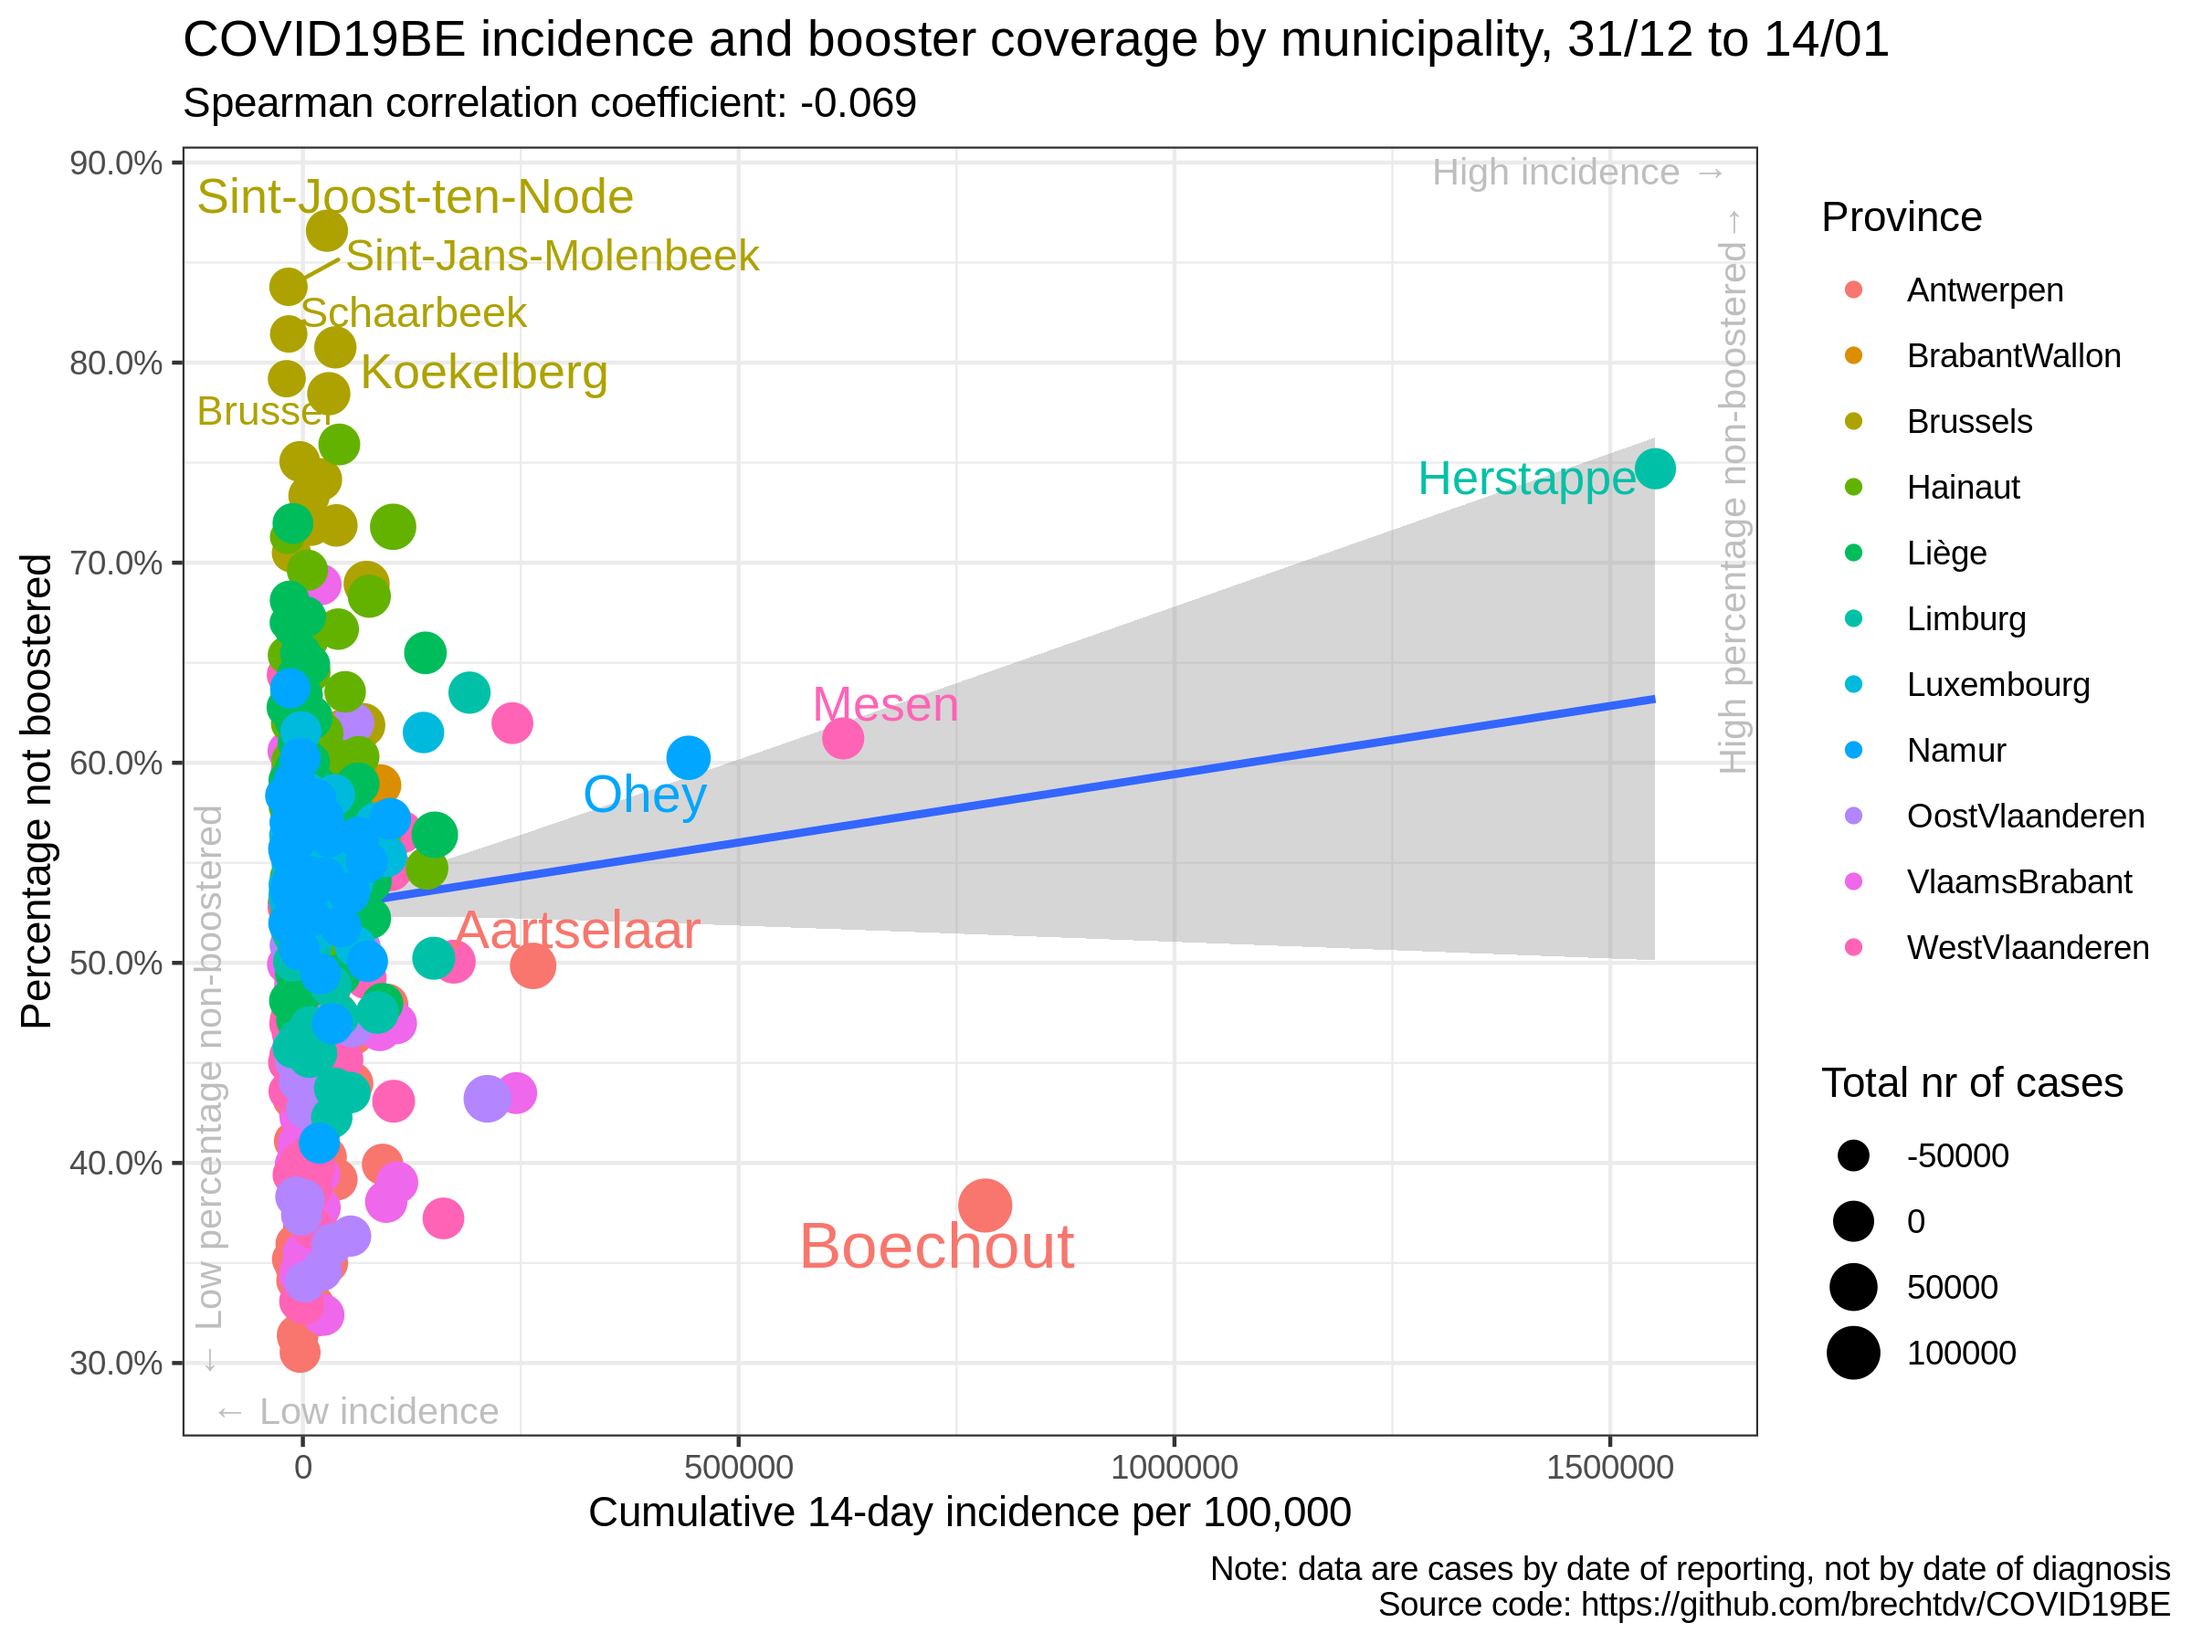
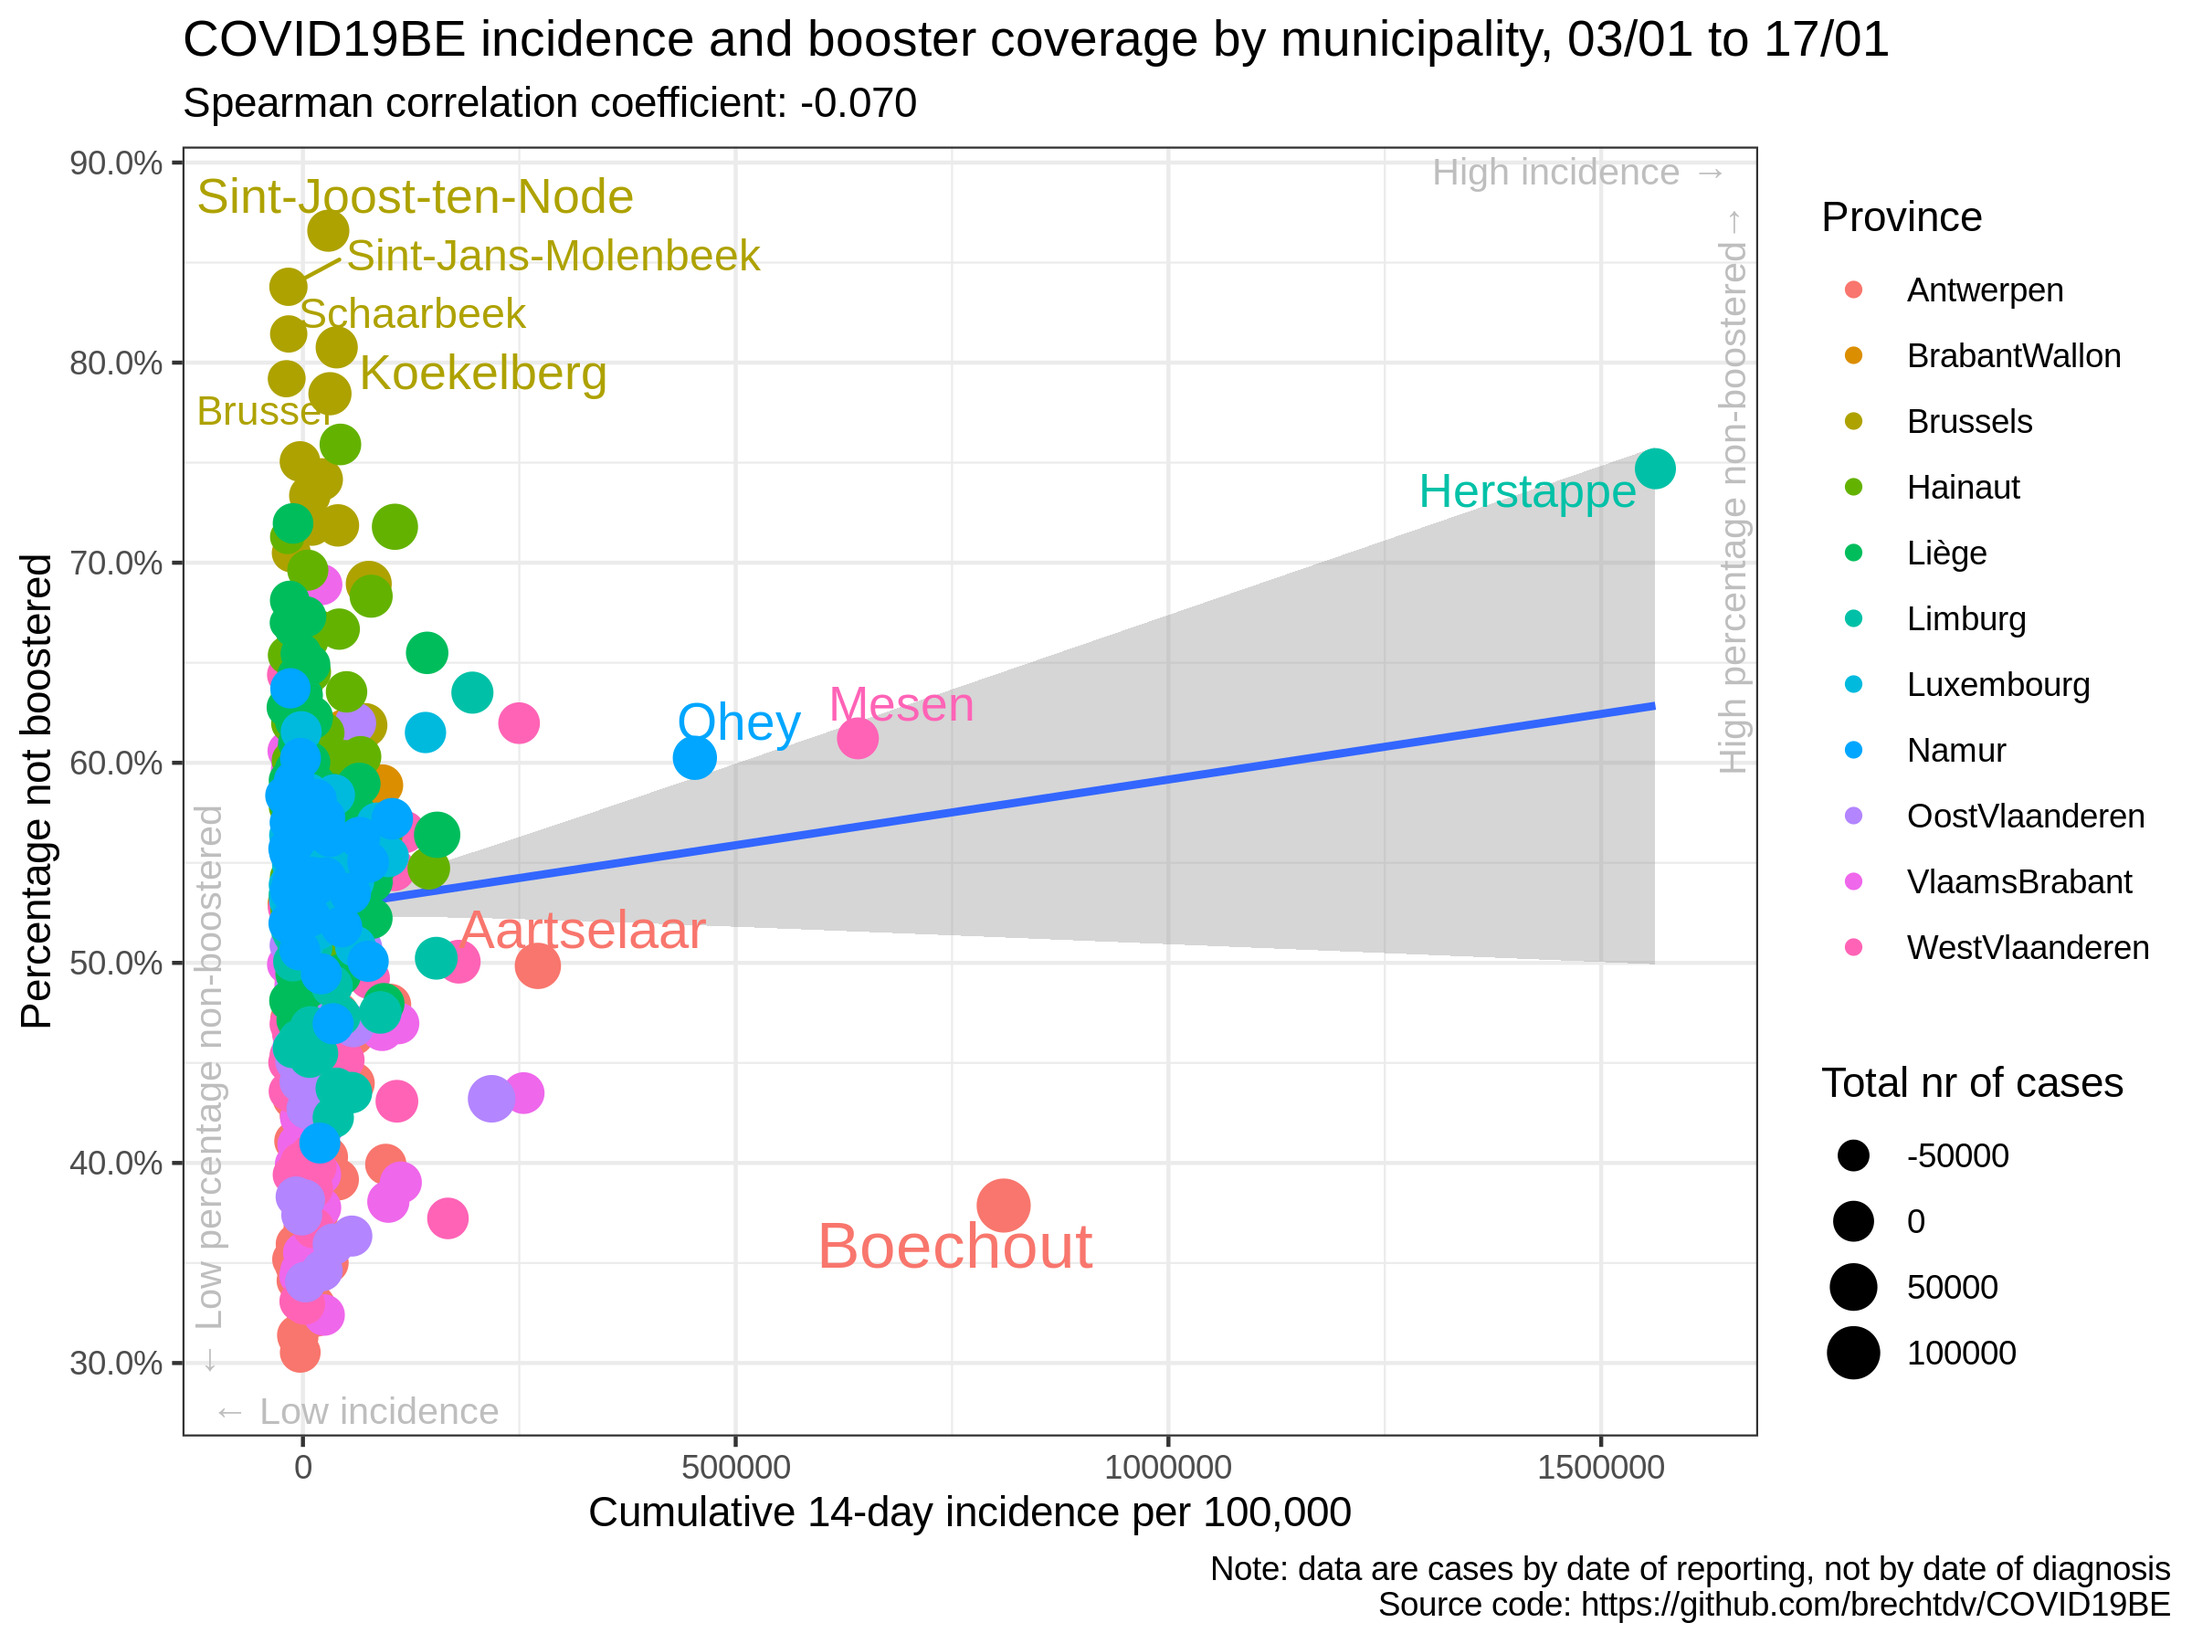
update situation

diff --git a/vaccination/README.md b/vaccination/README.md
@@ -17,35 +17,35 @@
 
 |                | estimate.rho | p.value |
 | :------------- | -----------: | ------: |
-| Antwerpen      |      \-0.178 |   0.144 |
-| BrabantWallon  |        0.259 |   0.192 |
+| Antwerpen      |      \-0.180 |   0.139 |
+| BrabantWallon  |        0.257 |   0.195 |
 | Brussels       |      \-0.365 |   0.125 |
-| Hainaut        |      \-0.027 |   0.824 |
-| Liège          |      \-0.156 |   0.156 |
-| Limburg        |      \-0.233 |   0.137 |
-| Luxembourg     |        0.095 |   0.540 |
-| Namur          |        0.106 |   0.526 |
-| OostVlaanderen |      \-0.262 |   0.043 |
-| VlaamsBrabant  |      \-0.209 |   0.094 |
-| WestVlaanderen |        0.192 |   0.129 |
-| Belgium        |      \-0.050 |   0.228 |
+| Hainaut        |      \-0.026 |   0.834 |
+| Liège          |      \-0.155 |   0.159 |
+| Limburg        |      \-0.228 |   0.147 |
+| Luxembourg     |        0.098 |   0.525 |
+| Namur          |        0.111 |   0.507 |
+| OostVlaanderen |      \-0.262 |   0.044 |
+| VlaamsBrabant  |      \-0.212 |   0.091 |
+| WestVlaanderen |        0.197 |   0.119 |
+| Belgium        |      \-0.052 |   0.213 |
 
 ### Correlation cumulative incidence vs booster rate
 
 |                | estimate.rho | p.value |
 | :------------- | -----------: | ------: |
-| Antwerpen      |        0.049 |   0.687 |
-| BrabantWallon  |        0.291 |   0.140 |
+| Antwerpen      |        0.045 |   0.713 |
+| BrabantWallon  |        0.292 |   0.140 |
 | Brussels       |      \-0.407 |   0.085 |
-| Hainaut        |        0.019 |   0.875 |
+| Hainaut        |        0.021 |   0.866 |
 | Liège          |      \-0.252 |   0.021 |
-| Limburg        |      \-0.213 |   0.174 |
-| Luxembourg     |      \-0.081 |   0.602 |
-| Namur          |      \-0.203 |   0.220 |
-| OostVlaanderen |      \-0.200 |   0.125 |
-| VlaamsBrabant  |      \-0.289 |   0.020 |
-| WestVlaanderen |        0.096 |   0.450 |
-| Belgium        |      \-0.069 |   0.095 |
+| Limburg        |      \-0.216 |   0.170 |
+| Luxembourg     |      \-0.077 |   0.620 |
+| Namur          |      \-0.206 |   0.213 |
+| OostVlaanderen |      \-0.203 |   0.120 |
+| VlaamsBrabant  |      \-0.287 |   0.021 |
+| WestVlaanderen |        0.101 |   0.424 |
+| Belgium        |      \-0.070 |   0.092 |
 
 ### Data source
 
